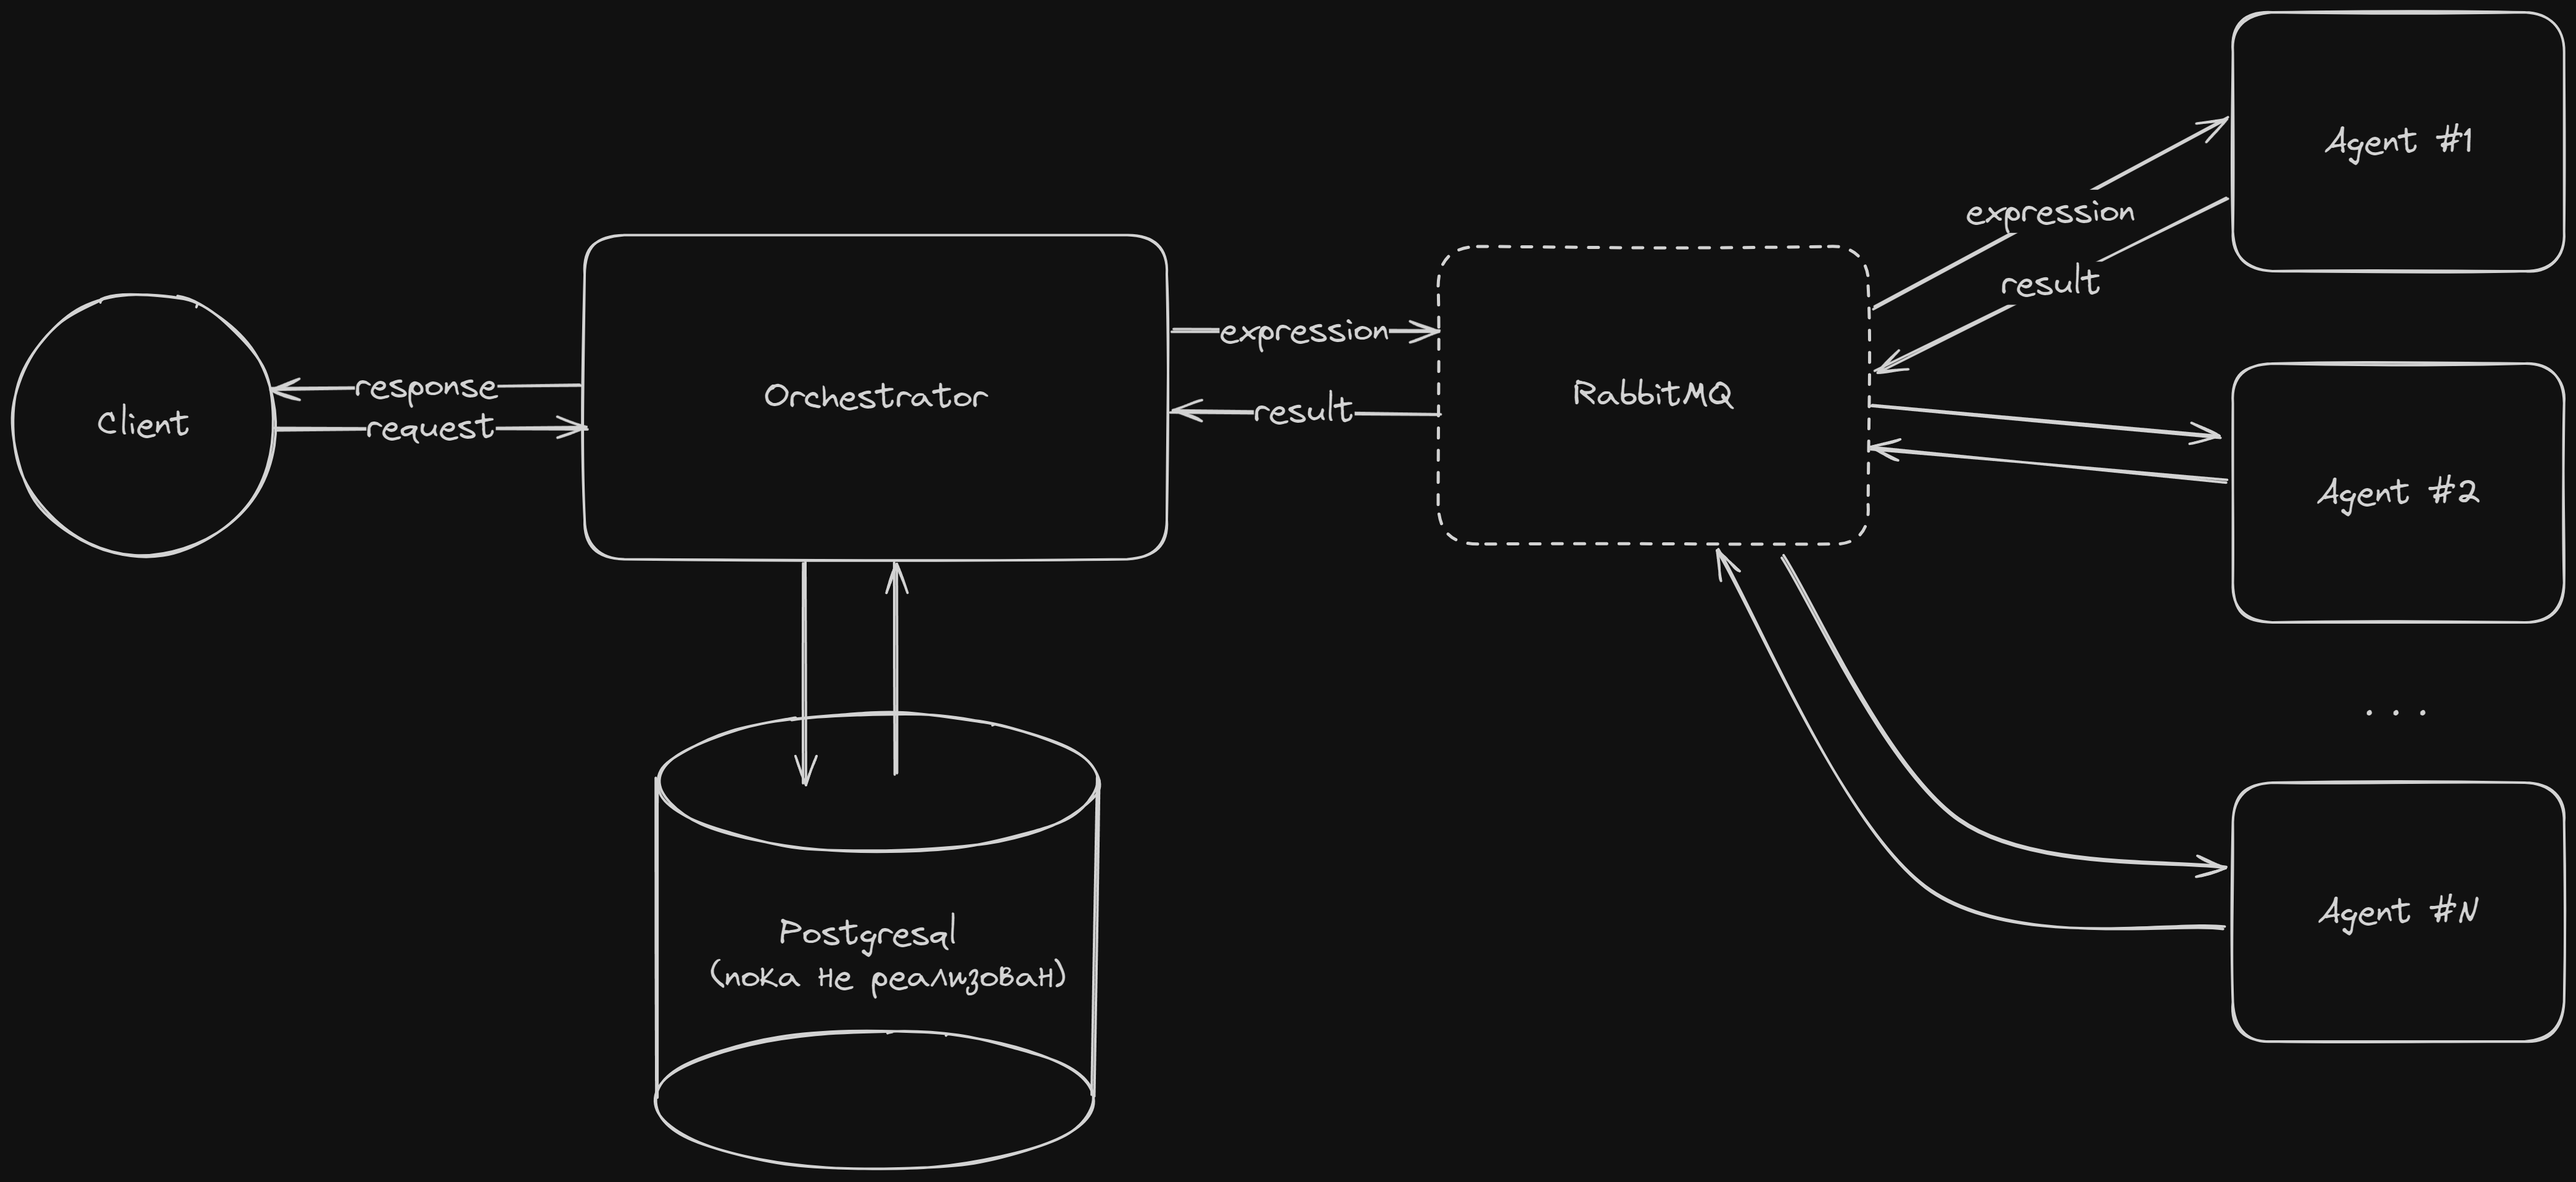
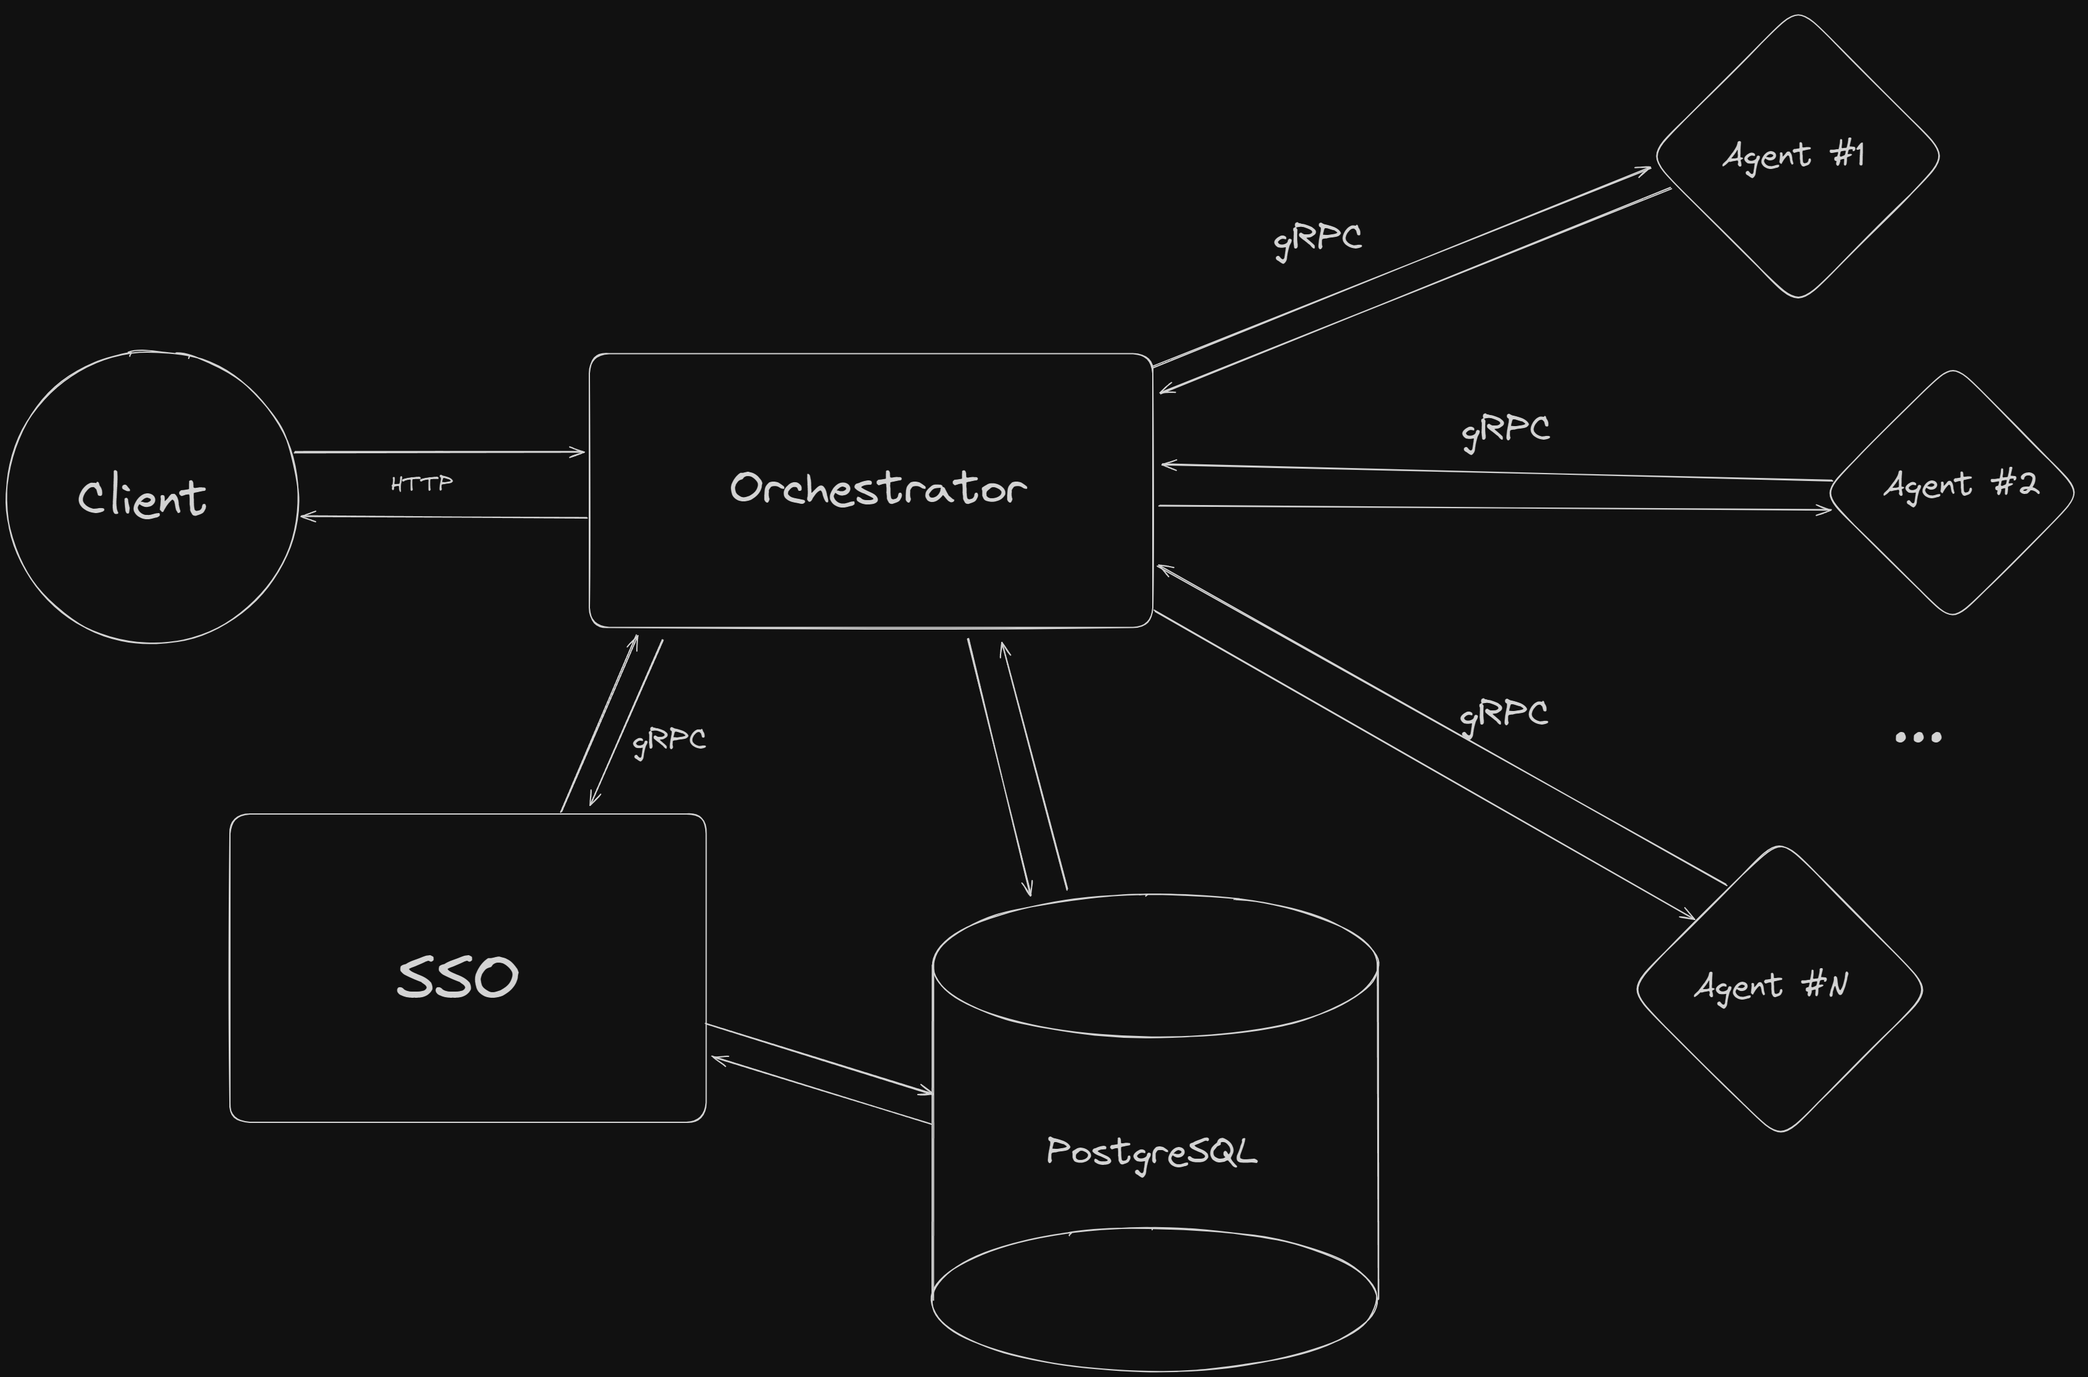
updated readme; created examples of http requests

diff --git a/README.md b/README.md
@@ -91,35 +91,22 @@ POST /api/v1/login {
 1) `cd <"path/to/project/root/directory">`
 2) `docker compose up -d` (`docker compose up -d --scale agent=X` <- если хотите несколько (X - количество) агентов на вычисление; без флага `-d` если хотите, чтобы выводились логи докера в консоль)
 
-# Пример (пока что не особо работает):
-POST `http://localhost:8080/expression`
-```json
-{
-    "expression": "((2*(3+4))/5)+(6-7)"
-}
-```
+# Примеры:
+Все примеры http запросов находятся в папке [/docs/examples](./docs/examples)
 
-GET `http://localhost:8080/expression?id=2_p_2_m_1`
-```json
-"id": "2_p_2_m_1",
-"expression": "2+2-1",
-"answer": "3",
-"status": "completed",
-"createdAt": "2024-02-18 20:23:54.361591737 +0000 UTC",
-"completedAt": "2024-02-18 20:23:59.376610678 +0000 UTC"
-```
+- [/docs/examples/registerUser.http](./docs/examples/registerUser.http) -> Пример запроса для регистрации пользователя
 
+- [/docs/examples/loginUser.http](./docs/examples/loginUser.http) -> Пример запроса для входа пользователя
 
-POST `http://localhost:8080/api/getimpodencekey`
-```json
-{
-    "expression": "2+2"
-}
-```
+- [/docs/examples/evaluateExpression.http](./docs/examples/evaluateExpression.http) -> Пример запроса на решение примера
 
-```
-"2_p_2"
-```
+- [/docs/examples/getAgentState.http](./docs/examples/getAgentState.http) -> Пример запроса на получение состояния всех демонов
+
+- [/docs/examples/getAllExpressions.http](./docs/examples/getAllExpressions.http) -> Пример запроса на получение всех решенных (и не только) примеров для определенного пользователя
+
+- [/docs/examples/getExpressionById.http](./docs/examples/getExpressionById.http) -> Пример запроса на получение выражения по его id
+
+- [/docs/examples/getImpodenceKey.http](./docs/examples/getImpodenceKey.http) -> Пример запроса на получение ключа имподентности (id выражения)
 ## Вы можете получить данную ошибку: 
 
 `Error response from daemon: Ports are not available: exposing port TCP 0.0.0.0:5673 -> 0.0.0.0:0: listen tcp 0.0.0.0:5673: bind: address already in use`
@@ -157,13 +144,9 @@ POST `http://localhost:8080/api/getimpodencekey`
 1) не должно быть никаких лишних символов
 2) скобочки должны стоять правильно
 
-# Схемки (пока не актуально)
+# Схемки
 
 ![Схема всего проекта](/docs/schema.png)
 
-![Схема всего проекта](/docs/rabbitmq.png)
-
-![Схема всего проекта](/docs/orchestrator.png)
-
 # Как связаться
-Мой телеграмм -> [тык](https://t.me/a_romashov)<p>
+### Мой телеграмм -> [тык](https://t.me/a_romashov)<p>
